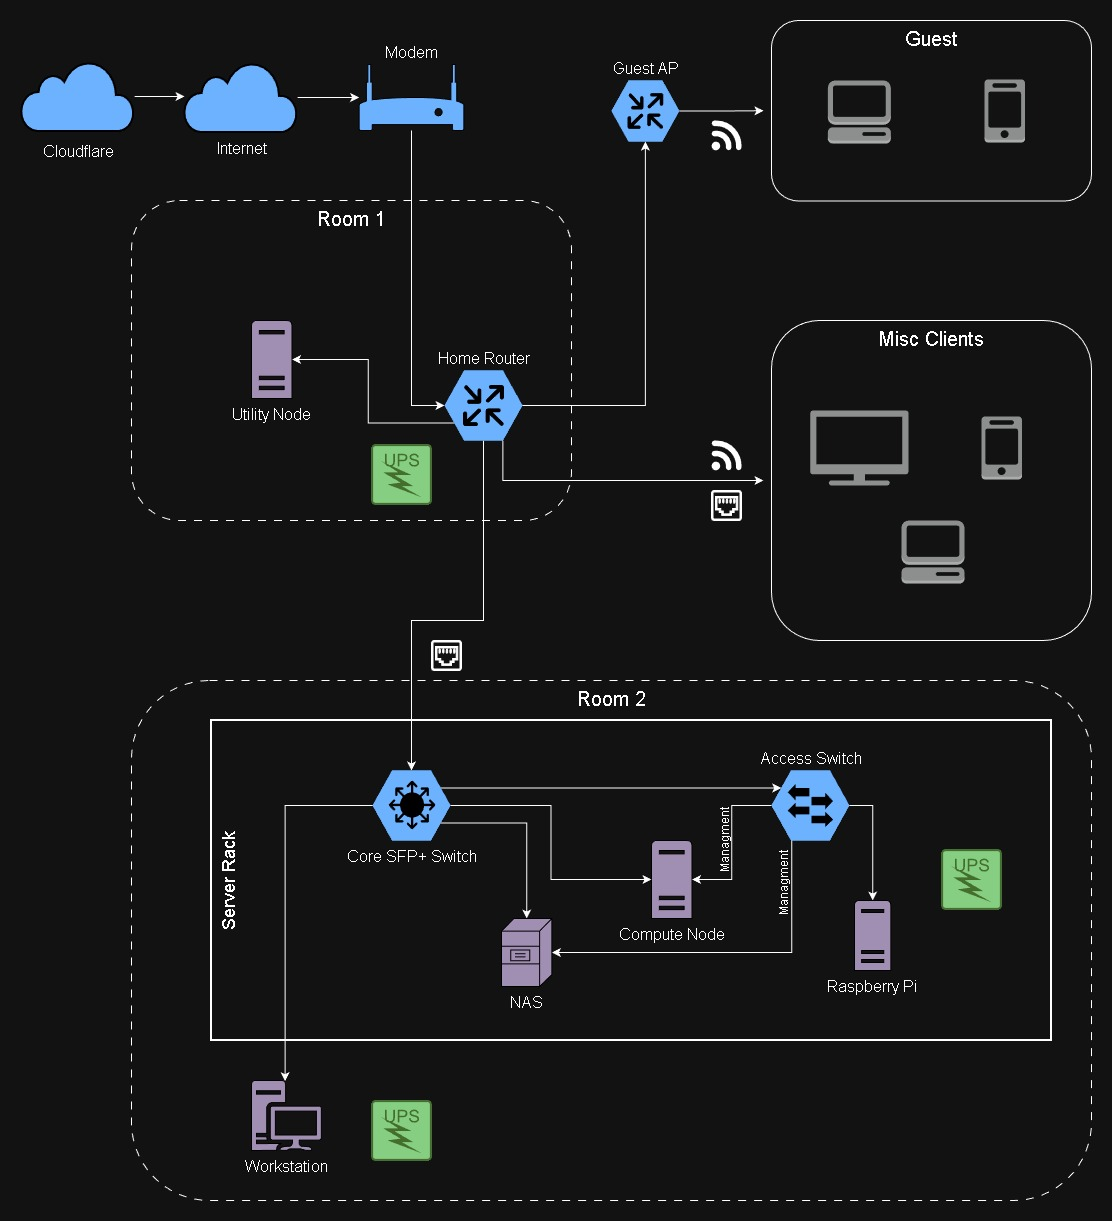
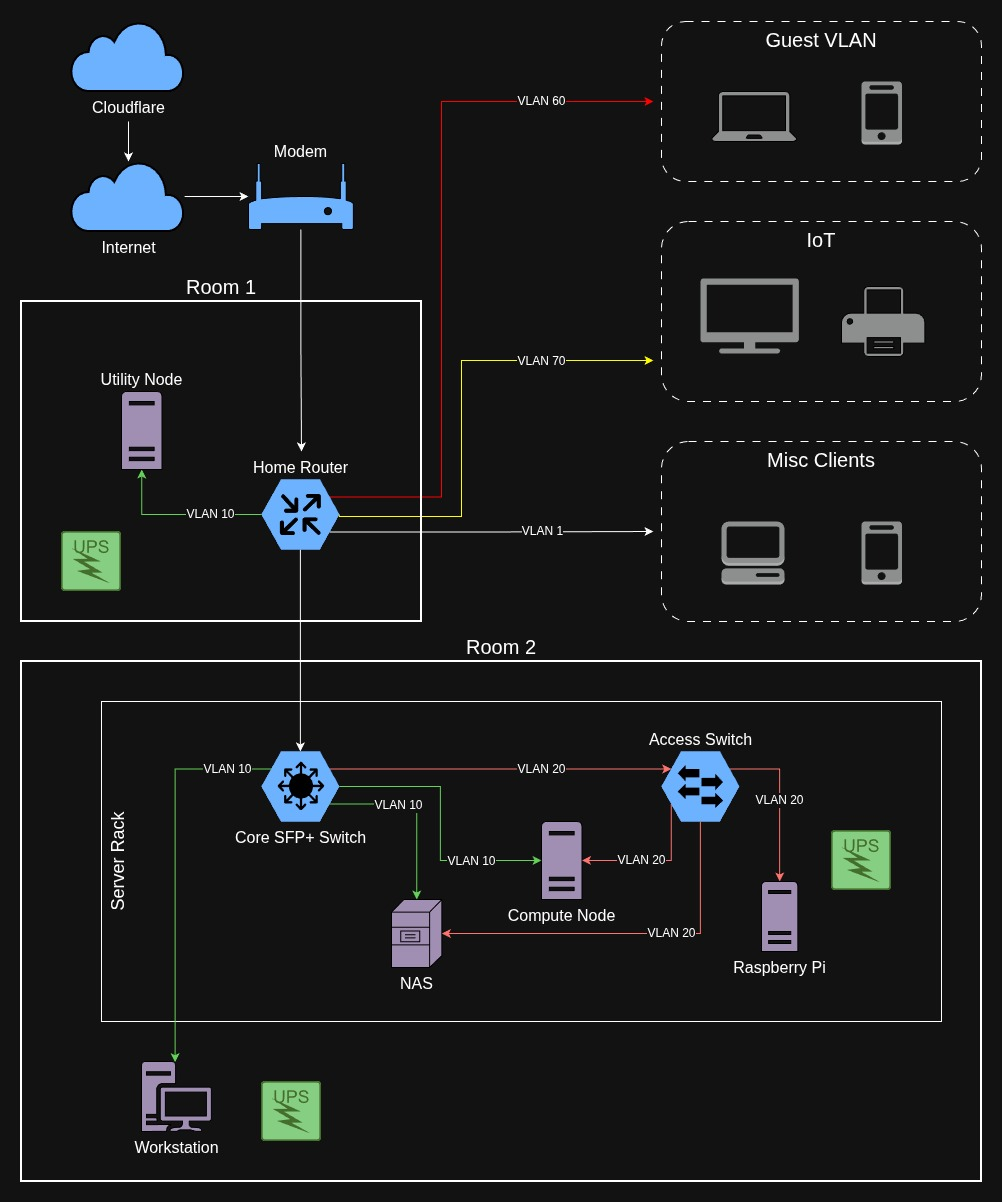
remove shares and update diagram

diff --git a/README.md b/README.md
@@ -51,15 +51,6 @@ This homelab is designed with modularity in mind:
     - family/ (Family Dataset)
       - Services: _Nextcloud_
 
-- **NFS Shares**:
-  - Media: `/mnt/nfs/jellyfin` (for Arr Stack)
-  - Nextcloud: `/mnt/nfs/family/nextcloud`
-  - Configured in `/etc/fstab` for automatic mounting
-  
-- **SMB Shares**:
-  - Immich: `/mnt/truenas_data/immich`
-  - Jellyfin: `/mnt/truenas_data/jellyfin`
-
 ## Docker Image Management
 
 **Portainer** provides a web-based interface for managing Docker containers, images, networks, and volumes. It offers an intuitive GUI for Docker management tasks that would otherwise require command-line operations.
